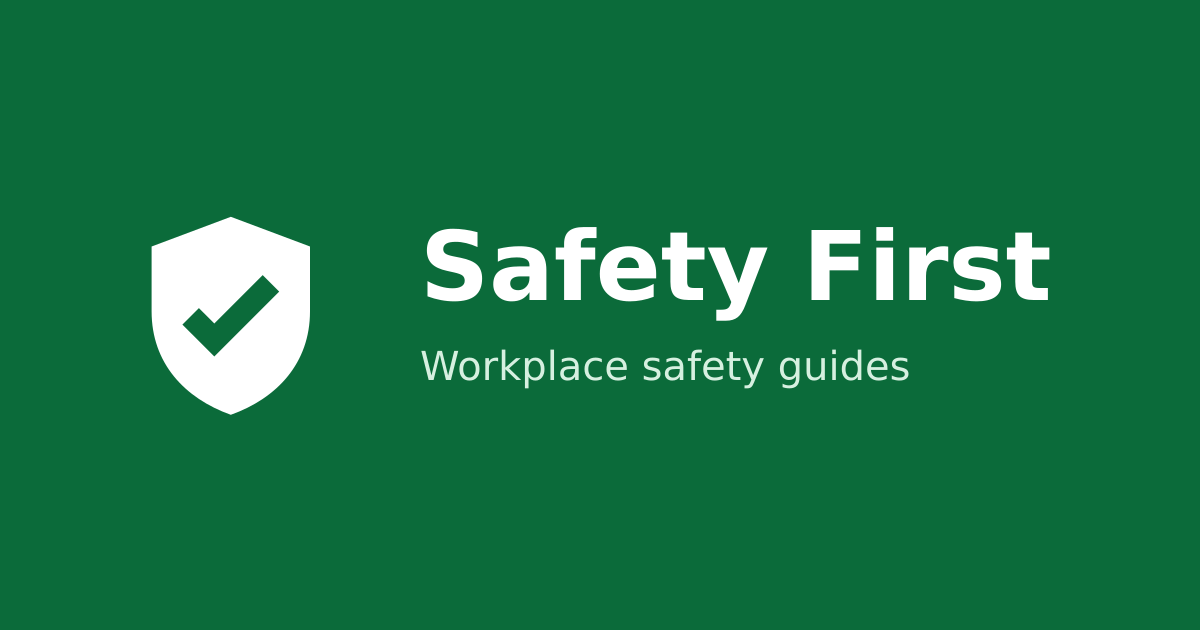
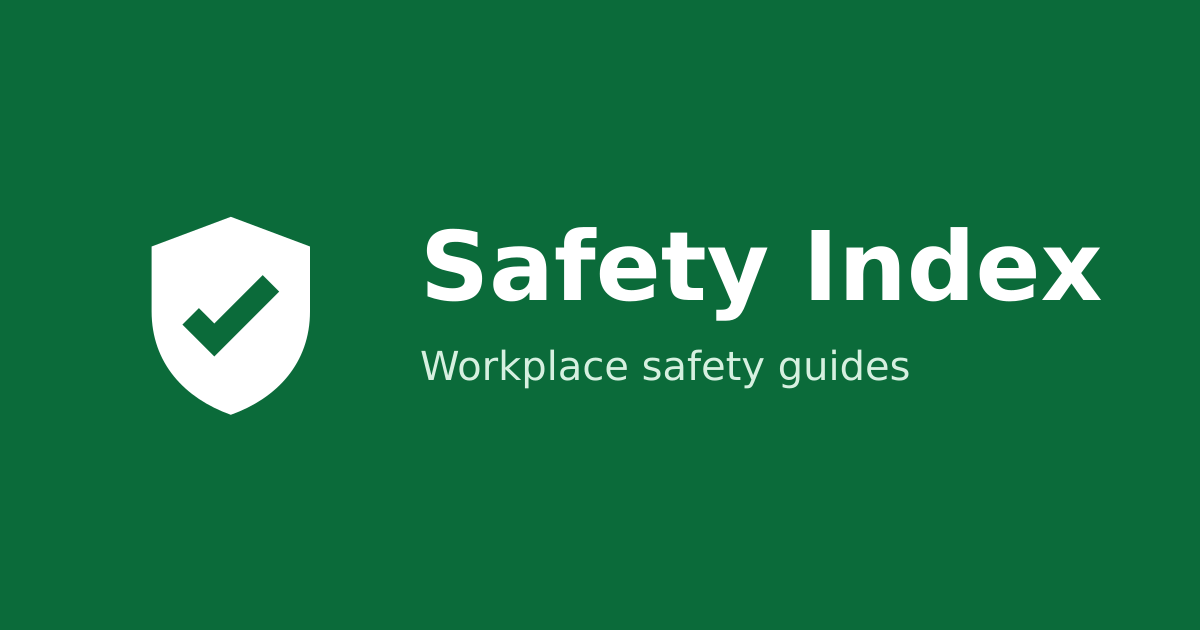
Rename to Safety Index on safetyindex.blog (hello@safetyindex.blog)
safetyfirst.site was flagged as a link farm. Brand name, domain, contact email,
social image, Worker name and the sheet's Published URL all move together.

Changed region(s): [[0.6783, 0.3619, 0.925, 0.4825]]

diff --git a/src/i18n/ui.ts b/src/i18n/ui.ts
@@ -48,16 +48,16 @@ export const ui: Record<Lang, Strings> = {
     noPosts: "No guides yet.", notFound: "404: Page not found", goHome: "Go to home page", language: "Language", footerRights: "All rights reserved.",
     heroTitle: "Workplace safety, explained from the primary sources",
     heroText: "Plain-language guides to OSHA, ANSI, NFPA and NIOSH requirements. Every claim links to the regulation or standard it comes from.",
-    homeTitle: "Safety First: workplace safety guides from primary sources",
+    homeTitle: "Safety Index: workplace safety guides from primary sources",
     homeDescription: "Plain-language workplace safety guides to OSHA, ANSI, NFPA and NIOSH requirements, each linked to the primary sources behind it.",
-    blogTitle: "All safety guides", blogDescription: "Every Safety First guide, newest first.", tagsDescription: "Every tag used on Safety First guides.",
+    blogTitle: "All safety guides", blogDescription: "Every Safety Index guide, newest first.", tagsDescription: "Every tag used on Safety Index guides.",
     tagTitle: (t) => `Tag: ${t}`, tagDescription: (t) => `Workplace safety guides tagged “${t}”.`,
     privacy: "Privacy", terms: "Terms", contact: "Contact", rss: "RSS",
     howMade: "How this guide was made: it was researched and written by Claude, an AI model, from primary sources (regulators, standards bodies) opened during research, and the sources are linked above. Structure, links and metadata pass automated checks. The featured image is AI-generated and illustrative. It has not been reviewed line by line by a named safety professional.",
     disclaimer: "General information, not legal or professional advice. Rules differ by country, state and industry: check the regulation that applies to your site and ask your regulator or a competent safety professional.",
-    aboutTitle: "About Safety First", aboutDescription: "What Safety First is, how every guide is researched and written with AI, and what that means for how you use it.",
+    aboutTitle: "About Safety Index", aboutDescription: "What Safety Index is, how every guide is researched and written with AI, and what that means for how you use it.",
     aboutBody: [
-      "Safety First publishes plain-language workplace safety guides. Each one is built from primary sources: the regulation, the standard or the regulator's own guidance, linked in the sources list so you can read the original.",
+      "Safety Index publishes plain-language workplace safety guides. Each one is built from primary sources: the regulation, the standard or the regulator's own guidance, linked in the sources list so you can read the original.",
       "## How we write",
       "Guides are researched and written by Claude, an AI model made by Anthropic. During research it opens the regulator and standards pages it cites, and the build refuses a guide that cites a page it did not open. We do not invent authors, case studies, statistics or experience: worked examples are labelled as examples. Featured images are generated by Google's Gemini image model, are illustrative only, and carry the IPTC label for AI-generated media.",
       "Google's guidance is that content is judged on whether it helps people, not on how it was produced. We still tell you plainly how this is made, because safety is a topic where accuracy matters. Guides are not reviewed line by line by a named safety professional.",
@@ -75,16 +75,16 @@ export const ui: Record<Lang, Strings> = {
     noPosts: "Aucun guide pour le moment.", notFound: "404 : page introuvable", goHome: "Retour à l'accueil", language: "Langue", footerRights: "Tous droits réservés.",
     heroTitle: "La sécurité au travail, expliquée à partir des sources officielles",
     heroText: "Des guides clairs sur les exigences de sécurité au travail. Chaque affirmation renvoie au texte réglementaire ou à la norme dont elle provient.",
-    homeTitle: "Safety First : guides de sécurité au travail",
+    homeTitle: "Safety Index : guides de sécurité au travail",
     homeDescription: "Guides clairs sur la sécurité au travail, chacun relié aux sources officielles (réglementation, normes) sur lesquelles il s'appuie.",
-    blogTitle: "Tous les guides sécurité", blogDescription: "Tous les guides Safety First, du plus récent au plus ancien.", tagsDescription: "Tous les mots-clés utilisés dans les guides Safety First.",
+    blogTitle: "Tous les guides sécurité", blogDescription: "Tous les guides Safety Index, du plus récent au plus ancien.", tagsDescription: "Tous les mots-clés utilisés dans les guides Safety Index.",
     tagTitle: (t) => `Mot-clé : ${t}`, tagDescription: (t) => `Guides de sécurité au travail avec le mot-clé « ${t} ».`,
     privacy: "Confidentialité", terms: "Conditions", contact: "Contact", rss: "RSS",
     howMade: "Comment ce guide a été réalisé : il a été recherché et rédigé par Claude, un modèle d'IA, à partir de sources officielles (autorités, organismes de normalisation) consultées pendant la recherche ; les sources sont indiquées ci-dessus. La structure, les liens et les métadonnées passent des contrôles automatiques. L'image d'illustration est générée par IA. Il n'a pas été relu ligne par ligne par un professionnel de la sécurité identifié.",
     disclaimer: "Informations générales, ni conseil juridique ni conseil professionnel. Les règles varient selon le pays et le secteur : consultez le texte applicable à votre site et demandez conseil à l'autorité compétente ou à une personne compétente en prévention.",
-    aboutTitle: "À propos de Safety First", aboutDescription: "Ce qu'est Safety First, comment chaque guide est recherché et rédigé avec l'IA, et ce que cela implique pour vous.",
+    aboutTitle: "À propos de Safety Index", aboutDescription: "Ce qu'est Safety Index, comment chaque guide est recherché et rédigé avec l'IA, et ce que cela implique pour vous.",
     aboutBody: [
-      "Safety First publie des guides clairs sur la sécurité au travail. Chacun s'appuie sur des sources officielles : la réglementation, la norme ou les recommandations de l'autorité, indiquées dans la liste des sources pour que vous puissiez lire l'original.",
+      "Safety Index publie des guides clairs sur la sécurité au travail. Chacun s'appuie sur des sources officielles : la réglementation, la norme ou les recommandations de l'autorité, indiquées dans la liste des sources pour que vous puissiez lire l'original.",
       "## Comment nous écrivons",
       "Les guides sont recherchés et rédigés par Claude, un modèle d'IA d'Anthropic. Pendant la recherche, il ouvre les pages des autorités et organismes qu'il cite, et la publication est refusée si un guide cite une page non consultée. Nous n'inventons ni auteurs, ni études de cas, ni statistiques, ni expérience : les exemples chiffrés sont présentés comme des exemples. Les images d'illustration sont générées par le modèle d'images Gemini de Google, purement illustratives, et portent le marquage IPTC des contenus générés par IA.",
       "Selon Google, un contenu est jugé sur son utilité pour les lecteurs, pas sur la façon dont il est produit. Nous indiquons malgré tout clairement comment il est fait, car la sécurité exige de l'exactitude. Les guides ne sont pas relus ligne par ligne par un professionnel de la sécurité identifié.",
@@ -102,16 +102,16 @@ export const ui: Record<Lang, Strings> = {
     noPosts: "Noch keine Ratgeber.", notFound: "404: Seite nicht gefunden", goHome: "Zur Startseite", language: "Sprache", footerRights: "Alle Rechte vorbehalten.",
     heroTitle: "Arbeitsschutz, erklärt anhand der Originalquellen",
     heroText: "Verständliche Ratgeber zu Anforderungen im Arbeitsschutz. Jede Aussage verweist auf die Vorschrift oder Norm, aus der sie stammt.",
-    homeTitle: "Safety First: Ratgeber zum Arbeitsschutz",
+    homeTitle: "Safety Index: Ratgeber zum Arbeitsschutz",
     homeDescription: "Verständliche Arbeitsschutz-Ratgeber, jeweils mit Verweis auf die Originalquellen (Vorschriften, Normen), auf denen sie beruhen.",
-    blogTitle: "Alle Arbeitsschutz-Ratgeber", blogDescription: "Alle Safety-First-Ratgeber, neueste zuerst.", tagsDescription: "Alle Schlagwörter der Safety-First-Ratgeber.",
+    blogTitle: "Alle Arbeitsschutz-Ratgeber", blogDescription: "Alle Safety-Index-Ratgeber, neueste zuerst.", tagsDescription: "Alle Schlagwörter der Safety-Index-Ratgeber.",
     tagTitle: (t) => `Schlagwort: ${t}`, tagDescription: (t) => `Arbeitsschutz-Ratgeber zum Schlagwort „${t}“.`,
     privacy: "Datenschutz", terms: "Nutzungsbedingungen", contact: "Kontakt", rss: "RSS",
     howMade: "So ist dieser Ratgeber entstanden: Er wurde von Claude, einem KI-Modell, anhand von Originalquellen (Behörden, Normungsorganisationen) recherchiert und geschrieben, die während der Recherche geöffnet wurden; die Quellen sind oben verlinkt. Struktur, Links und Metadaten durchlaufen automatische Prüfungen. Das Titelbild ist KI-generiert und dient der Illustration. Er wurde nicht Zeile für Zeile von einer namentlich genannten Fachkraft für Arbeitssicherheit geprüft.",
     disclaimer: "Allgemeine Informationen, keine Rechts- oder Fachberatung. Die Vorschriften unterscheiden sich je nach Land und Branche: Prüfen Sie die für Ihren Betrieb geltende Regelung und fragen Sie Ihre Behörde, den Unfallversicherungsträger oder eine Fachkraft für Arbeitssicherheit.",
-    aboutTitle: "Über Safety First", aboutDescription: "Was Safety First ist, wie jeder Ratgeber mit KI recherchiert und geschrieben wird und was das für die Nutzung bedeutet.",
+    aboutTitle: "Über Safety Index", aboutDescription: "Was Safety Index ist, wie jeder Ratgeber mit KI recherchiert und geschrieben wird und was das für die Nutzung bedeutet.",
     aboutBody: [
-      "Safety First veröffentlicht verständliche Ratgeber zum Arbeitsschutz. Jeder stützt sich auf Originalquellen: die Vorschrift, die Norm oder die Hinweise der zuständigen Stelle, verlinkt in der Quellenliste, damit Sie das Original lesen können.",
+      "Safety Index veröffentlicht verständliche Ratgeber zum Arbeitsschutz. Jeder stützt sich auf Originalquellen: die Vorschrift, die Norm oder die Hinweise der zuständigen Stelle, verlinkt in der Quellenliste, damit Sie das Original lesen können.",
       "## Wie wir schreiben",
       "Die Ratgeber werden von Claude, einem KI-Modell von Anthropic, recherchiert und geschrieben. Bei der Recherche öffnet es die Seiten der Behörden und Normungsstellen, die es zitiert; ein Ratgeber, der eine nicht geöffnete Seite zitiert, wird nicht veröffentlicht. Wir erfinden keine Autoren, Fallstudien, Statistiken oder Erfahrungen: Rechenbeispiele sind als Beispiele gekennzeichnet. Titelbilder werden mit dem Bildmodell Gemini von Google erzeugt, dienen nur der Illustration und tragen die IPTC-Kennzeichnung für KI-generierte Medien.",
       "Laut Google zählt, ob ein Inhalt Menschen hilft, nicht wie er entstanden ist. Wir sagen trotzdem offen, wie er entsteht, weil im Arbeitsschutz Genauigkeit zählt. Die Ratgeber werden nicht Zeile für Zeile von einer namentlich genannten Fachkraft für Arbeitssicherheit geprüft.",

diff --git a/src/lib/content.ts b/src/lib/content.ts
@@ -116,9 +116,9 @@ export async function siteIndex(): Promise<IndexedPage[]> {
     for (const c of company(lang)) pages.push({ ...c, lang, section: "company", updated: siteUpdated, mirror: false });
   }
   pages.push(
-    { path: "/contact", title: "Contact Safety First", description: "How to report a mistake or reach the team by email.", lang: defaultLang, section: "company", updated: siteUpdated, mirror: false },
-    { path: "/privacy", title: "Privacy policy", description: "What data Safety First collects (none beyond server logs).", lang: defaultLang, section: "company", updated: siteUpdated, mirror: false },
-    { path: "/terms", title: "Terms of use", description: "Terms for using Safety First and its guides.", lang: defaultLang, section: "company", updated: siteUpdated, mirror: false },
+    { path: "/contact", title: "Contact Safety Index", description: "How to report a mistake or reach the team by email.", lang: defaultLang, section: "company", updated: siteUpdated, mirror: false },
+    { path: "/privacy", title: "Privacy policy", description: "What data Safety Index collects (none beyond server logs).", lang: defaultLang, section: "company", updated: siteUpdated, mirror: false },
+    { path: "/terms", title: "Terms of use", description: "Terms for using Safety Index and its guides.", lang: defaultLang, section: "company", updated: siteUpdated, mirror: false },
   );
   return pages;
 }

diff --git a/README.md b/README.md
@@ -1,4 +1,4 @@
-# Safety First
+# Safety Index
 
 A static workplace safety blog on [Astro](https://astro.build) with the [astro-micro](https://github.com/trevortylerlee/astro-micro) theme. New guides are researched and written by Claude Opus from primary sources and published automatically, one topic at a time, at random 24–36 hour intervals, in English, French and German. Each post has one featured image (an AI-generated photograph); there are no other images.
 
@@ -35,8 +35,8 @@ If anything fails (API down, no credits, a post that won't pass the checks), not
    - `ANTHROPIC_API_KEY`
    - `GOOGLE_CLOUD_API_KEY` (Vertex AI key for the featured image; the project defaults to `conform-blog-513213`, override with the `GOOGLE_CLOUD_PROJECT` variable)
    - Failure email over SMTP. With Gmail: `SMTP_HOST`=`smtp.gmail.com`, `SMTP_PORT`=`465`, `SMTP_USER`=your Gmail address, `SMTP_PASS`=a [Google app password](https://myaccount.google.com/apppasswords) (needs 2-Step Verification). Optional: `ALERT_EMAIL` (default pauljomy92@gmail.com), `MAIL_FROM`.
-3. **Variables (optional):** `ANTHROPIC_MODEL` (default `claude-opus-5-5`), `GOOGLE_CLOUD_PROJECT`. The domain (`https://safetyfirst.site`) and contact email are set in `src/config/site.mjs`.
-4. **Cloudflare** (Workers static assets, `wrangler.jsonc`): Workers & Pages → Create → Import a repository → `pauljomy/safetyfirst`. Build command `npm run build`, deploy command `npx wrangler deploy`, root `/`. Node comes from `.node-version` (24). Then add `safetyfirst.site` under the Worker's Settings → Domains & Routes. Every push to `main` (including the bot's post commits) redeploys. Response headers are in `public/_headers`.
+3. **Variables (optional):** `ANTHROPIC_MODEL` (default `claude-opus-5-5`), `GOOGLE_CLOUD_PROJECT`. The domain (`https://safetyindex.blog`) and contact email are set in `src/config/site.mjs`.
+4. **Cloudflare** (Workers static assets, `wrangler.jsonc`): Workers & Pages → Create → Import a repository → `pauljomy/safetyfirst`. Build command `npm run build`, deploy command `npx wrangler deploy`, root `/`. Node comes from `.node-version` (24). Then add `safetyindex.blog` under the Worker's Settings → Domains & Routes. Every push to `main` (including the bot's post commits) redeploys. Response headers are in `public/_headers`.
 
 ## Where things live
 

diff --git a/CLAUDE.md b/CLAUDE.md
@@ -1,4 +1,4 @@
-# Safety First blog
+# Safety Index blog
 
 Static Astro site on the [astro-micro](https://github.com/trevortylerlee/astro-micro) theme (MIT). Posts are researched and written by Claude Opus through `scripts/generate-post.mjs`, which a GitHub Action runs on a random 24–36 hour schedule. See README.md for where things live.
 
